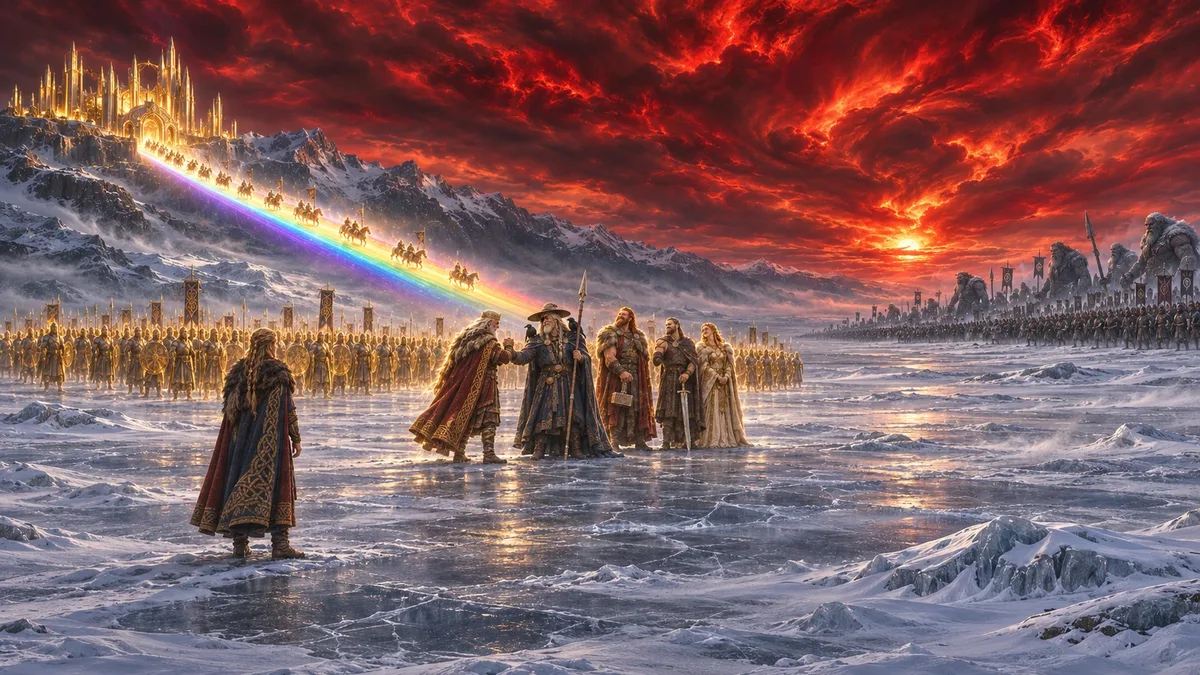
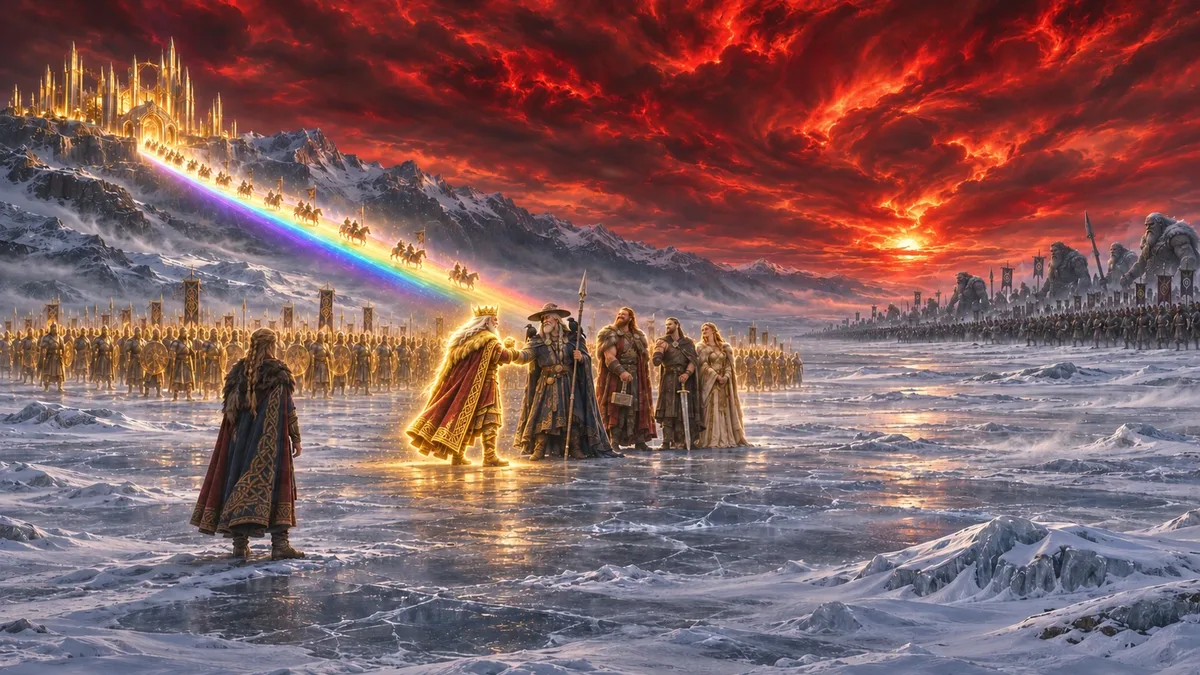
Add York/Wessex alternate scenes, redrawn king forms and Odin scene
Claude-Session: https://claude.ai/code/session_018DsforeThe2Xf67NaWvTXc

diff --git a/viking-game/index.html b/viking-game/index.html
@@ -1080,7 +1080,7 @@ const rate=p=>`成功率 ${pct(clamp(p,.03,.97))}`;
 
 /* ================= 插圖 ================= */
 // 已經放進 art/ 的插圖。新圖到了就把檔名加進來，畫面會自動用上
-const ART_HAVE=new Set(['sc_k_advance','sc_paris_1','sc_paris_2','sc_paris_3','sc_wessex_3','sc_wessex_1','sc_wessex_2','sc_york_1','sc_york_2','sc_york_3','sc_beach_wall','sc_dane_victory','sc_war_council','sc_war_gunnhild','sc_war_sweyn','c_thorstein','sc_q_astrid','sc_q_sigrid','v_halfdan2a','v_halfdan2c','c_astrid','c_bragi','c_einar','c_gudrun','c_guthorm','c_hakon','c_hrolf','c_knut','c_ragnar','c_thorfinn','c_una','s_brynhild','s_gormflaith','s_gunnhild','s_ingrid','s_sweyn','g_freyja','g_hnoss','s_sitric','v_harald','v_palna','g_loki','g_odin','g_thor','g_tyr','v_halfdan','sc_ch2','sc_ch3','sc_ch4','sc_danes','sc_ch1','sc_coronation','sc_longhouse','sc_ragnarok','sc_tears','sc_valhalla','f_paint','f_frost','f_gold','f_hero','f_raven','m_fenrir','m_garm','m_hrym','m_jormun','m_surtr','v_halfdan2','c_sigrid','sc_einherjar','sc_ragfall','c_bjorn','sc_kiss_m','sc_kiss_f','sc_ragfall_odin','sc_ragfall_thor','sc_ragfall_freyja','sc_ragfall_loki','sc_ragfall_none','sc_ragfall_tyr','sc_k_kneel','sc_k_people','sc_k_push','sc_k_rise','sc_k_slip','sc_coronation_self','sc_k_exec','sc_k_face','sc_k_hall','sc_k_spare','sc_k_ship','sc_k_farm','sc_k_guard','sc_k_mound','sc_k_news','sc_k_bifrost','sc_k_charge','sc_k_axes','sc_k_line','sc_k_gods']);
+const ART_HAVE=new Set(['sc_wessex_0','sc_york_3b','sc_k_advance','sc_paris_1','sc_paris_2','sc_paris_3','sc_wessex_3','sc_wessex_1','sc_wessex_2','sc_york_1','sc_york_2','sc_york_3','sc_beach_wall','sc_dane_victory','sc_war_council','sc_war_gunnhild','sc_war_sweyn','c_thorstein','sc_q_astrid','sc_q_sigrid','v_halfdan2a','v_halfdan2c','c_astrid','c_bragi','c_einar','c_gudrun','c_guthorm','c_hakon','c_hrolf','c_knut','c_ragnar','c_thorfinn','c_una','s_brynhild','s_gormflaith','s_gunnhild','s_ingrid','s_sweyn','g_freyja','g_hnoss','s_sitric','v_harald','v_palna','g_loki','g_odin','g_thor','g_tyr','v_halfdan','sc_ch2','sc_ch3','sc_ch4','sc_danes','sc_ch1','sc_coronation','sc_longhouse','sc_ragnarok','sc_tears','sc_valhalla','f_paint','f_frost','f_gold','f_hero','f_raven','m_fenrir','m_garm','m_hrym','m_jormun','m_surtr','v_halfdan2','c_sigrid','sc_einherjar','sc_ragfall','c_bjorn','sc_kiss_m','sc_kiss_f','sc_ragfall_odin','sc_ragfall_thor','sc_ragfall_freyja','sc_ragfall_loki','sc_ragfall_none','sc_ragfall_tyr','sc_k_kneel','sc_k_people','sc_k_push','sc_k_rise','sc_k_slip','sc_coronation_self','sc_k_exec','sc_k_face','sc_k_hall','sc_k_spare','sc_k_ship','sc_k_farm','sc_k_guard','sc_k_mound','sc_k_news','sc_k_bifrost','sc_k_charge','sc_k_axes','sc_k_line','sc_k_gods']);
 const CHAMP_ART={halfdan2:'v_halfdan2',halfdan2a:'v_halfdan2a',halfdan2c:'v_halfdan2c',halfdan3:'v_halfdan3',bjorn:'c_bjorn',sigrid:'c_sigrid',hakon:'c_hakon',astrid:'c_astrid',thorfinn:'c_thorfinn',sven:'c_hrolf',una:'c_una',bragi:'c_bragi',einar:'c_einar',gudrun:'c_gudrun',ragnar:'c_ragnar',osric:'c_guthorm',knut:'c_knut',
   ingrid:'s_ingrid',brynhild:'s_brynhild',gunnhild:'s_gunnhild',sweyn:'s_sweyn',gormflaith:'s_gormflaith',sitric:'s_sitric',
   odin:'g_odin',thor:'g_thor',tyr:'g_tyr',freyja:'g_freyja',loki:'g_loki',hnoss:'g_hnoss',harald:'v_harald',palna:'v_palna',halfdan:'v_halfdan'};

diff --git a/viking-game/art-prompts.md b/viking-game/art-prompts.md
@@ -10,18 +10,15 @@
    - 我會自己縮圖、轉檔，你不用處理。
 4. 某張畫壞了（多手指、文字、現代物品），重畫那一張就好。還沒到的圖，遊戲裡會先用符文圖示代替，不影響遊玩。
 
-## ★ 重畫：有疑慮的圖（5 張＋還缺的 1 張）
+## ★ 還缺的圖（1 張）
 
-三型態的毛皮要一致：**第一、第二型態都還披著毛皮，第三型態才甩開**（遊戲文字是第三型態「甩開肩上的毛皮」）。
+重畫區的 R1–R5 都已收到並放進遊戲。目前只剩：
 
-| # | 檔名 | 為什麼要重畫 | 優先 |
-|---|---|---|---|
-| R1 | v_halfdan2a | 嘴巴張開，看起來像在低吼；老王要沉穩、閉著嘴 | 高 |
-| R2 | v_halfdan2 | 第二型態已經沒有毛皮，和第三型態「甩開毛皮」矛盾 | 高 |
-| R3 | sc_k_gods | 老王沒有英靈的金光，看起來不像「從英靈戰士裡走出來」 | 低（可不畫） |
-| R4 | sc_york_3b | 新圖：沒扶植傀儡的約克結局需要另一張（現在不放圖） | 中 |
-| R5 | sc_wessex_0 | 新圖：空蕩的行宮（原本借用盾牆圖，劇情對不上，現在不放圖） | 中 |
-| — | v_halfdan3 | 還缺（重生後的雙斧老王，提示詞見下方 v0.8 第二批 #10） | 中 |
+| 檔名 | 內容 | 提示詞 |
+|---|---|---|
+| v_halfdan3 | 重生後拿雙斧的老王（人物 3:4） | 見下方「v0.8 第二批」#10 |
+
+<details><summary>已完成的重畫提示詞（留存）</summary>
 
 **R1. v_halfdan2a（第一型態：剛覺醒，閉著嘴）**
 
@@ -61,6 +58,8 @@ Inside captured York, 9th century: a ruined Roman hall with broken columns, a cr
 Cinematic photorealistic digital painting, Viking Age Scandinavia (9th–10th century). Dramatic golden-hour light with cold blue shadows, atmospheric mist, epic sense of scale. Wide 16:9 landscape composition with room at the top for a title. No text, no letters, no watermark, no frame, no modern objects.
 An abandoned Anglo-Saxon royal hall in Wessex, 9th century, at dusk: a long timber hall with carved posts and hanging tapestries, the hearth fire in the middle still burning low, a long table with half-finished cups of ale, bread and an overturned bench, a fine cloak left behind on a chair; the great doors stand wide open. Viking warriors have just burst in with axes and torches and stop, confused, looking around the empty room. The king is gone. Eerie, puzzling, the hunt begins.
 ```
+
+</details>
 
 ## ✅ v0.11 劇情補圖（3 張，已全部收到）
 
